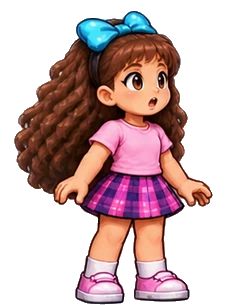
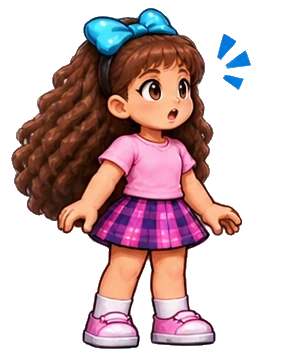
V58.8.34: transformación a Roblox con la exportación nueva del autor
Los 12 cuadros de la transformación de Sofía se recortan de la hoja reenviada
(mismos dibujos, 16 % más resolución), con un recuadro común para conservar la
alineación de la animación.

Claude-Session: https://claude.ai/code/session_014Q4ZknC6CJXiujQoE6npZF

diff --git a/sw.js b/sw.js
@@ -1,4 +1,5 @@
-// ¡Se me fue el camión! — service worker (V58.8.33).
+// ¡Se me fue el camión! — service worker (V58.8.34).
+// V58.8.34: cuadros de la transformación de Sofía a Roblox con la exportación más nítida (mismas rutas: los renueva el CACHE nuevo).
 // V58.8.33: atlas de la Sofía cúbica oficial en Parafalls (el PNG cambia de contenido: lo renueva el CACHE nuevo).
 // V58.8.32: Parafalls con la Sofía Roblox oficial (hoja de transformación) en toda su cinemática.
 // V58.8.31: calidad adaptable en la Calzada, motor de la moto y cortinilla de jefes.
@@ -25,8 +26,8 @@
 // Cada instalación mantiene el caché de su propia carpeta.
 const SCOPE = self.registration.scope;
 const CACHE_PREFIX = 'camion-web:' + SCOPE + '|';
-const CACHE = CACHE_PREFIX + '58.8.33';
-const CODE=["assets/player/sofia_roblox/sofia_atlas_data.js?v=58.8.33", "assets/player/sofia_roblox/sofia_parafalls_adapter.js?v=58.8.33", "js/app/parafalls_roblox_atlases.js?v=58.8.14", "css/game.css?v=58.8.1", "css/toxifamilia_style.css?v=58.8.17", "css/toxifamilia.css?v=58.8.25", "css/release_visual.css?v=58.8.30", "js/core/util.js?v=58.8.1", "js/core/config.js?v=58.8.33", "js/core/parafalls_data.js?v=58.8.13", "js/core/levels.js?v=58.8.30", "js/core/story.js?v=58.8.30", "js/core/toxifamilia_style.js?v=58.8.30", "js/core/toxifamilia.js?v=58.8.32", "js/core/physics.js?v=58.8.24", "js/core/enemies.js?v=58.8.29", "js/core/obstacles.js?v=58.8.1", "js/core/contracts.js?v=58.8.29", "js/core/upgrades.js?v=58.8.27", "js/core/world.js?v=58.8.29", "js/core/game.js?v=58.8.30", "js/core/chase.js?v=58.8.29", "js/app/art_data.js?v=58.8.1", "js/app/art_secretos.js?v=58.8.6", "js/app/art_extra.js?v=58.8.29", "js/app/art_production.js?v=58.8.1", "js/app/render.js?v=58.8.30", "js/app/chase_render.js?v=58.8.31", "js/app/input.js?v=58.8.1", "js/app/audio.js?v=58.8.31", "js/app/ui.js?v=58.8.31", "js/app/main.js?v=58.8.32", "js/app/toxifamilia_cinematic.js?v=58.8.30"];
+const CACHE = CACHE_PREFIX + '58.8.34';
+const CODE=["assets/player/sofia_roblox/sofia_atlas_data.js?v=58.8.33", "assets/player/sofia_roblox/sofia_parafalls_adapter.js?v=58.8.33", "js/app/parafalls_roblox_atlases.js?v=58.8.14", "css/game.css?v=58.8.1", "css/toxifamilia_style.css?v=58.8.17", "css/toxifamilia.css?v=58.8.25", "css/release_visual.css?v=58.8.30", "js/core/util.js?v=58.8.1", "js/core/config.js?v=58.8.34", "js/core/parafalls_data.js?v=58.8.13", "js/core/levels.js?v=58.8.30", "js/core/story.js?v=58.8.30", "js/core/toxifamilia_style.js?v=58.8.30", "js/core/toxifamilia.js?v=58.8.32", "js/core/physics.js?v=58.8.24", "js/core/enemies.js?v=58.8.29", "js/core/obstacles.js?v=58.8.1", "js/core/contracts.js?v=58.8.29", "js/core/upgrades.js?v=58.8.27", "js/core/world.js?v=58.8.29", "js/core/game.js?v=58.8.30", "js/core/chase.js?v=58.8.29", "js/app/art_data.js?v=58.8.1", "js/app/art_secretos.js?v=58.8.6", "js/app/art_extra.js?v=58.8.29", "js/app/art_production.js?v=58.8.1", "js/app/render.js?v=58.8.30", "js/app/chase_render.js?v=58.8.31", "js/app/input.js?v=58.8.1", "js/app/audio.js?v=58.8.31", "js/app/ui.js?v=58.8.31", "js/app/main.js?v=58.8.32", "js/app/toxifamilia_cinematic.js?v=58.8.30"];
 const SHELL=['Se_Me_Fue_El_Camion.html','index.html','manifest.webmanifest','icon-192.png','icon-512.png','icon-512-maskable.png','assets/audio/cancion_fondo_v40.mp3','assets/audio/guadalajara_aventura_v24.mp3','assets/audio/ambiente_escuela_v24.mp3','assets/audio/ambiente_calles_guadalajara_v24.mp3','assets/audio/luna_maullido_v24.mp3','assets/audio/morita_maullido_v24.mp3','assets/audio/luna_ronroneo_v31.mp3','assets/audio/morita_ronroneo_v31.mp3','assets/audio/luna_alerta_v31.mp3','assets/audio/morita_alerta_v31.mp3','assets/audio/sofia_otro_gato_usuario_v38.mp3','assets/audio/mar_chinos_de_seda_fondo_v58_3.mp3','assets/audio/motor_camion_guadalajara_v25.mp3','assets/audio/boss_intro_v37.mp3','assets/audio/boss_windup_v37.mp3','assets/audio/boss_hit_v37.mp3','assets/audio/boss_defeat_v37.mp3','assets/vehicles/camion_frame_01.png','assets/vehicles/camion_frame_02.png','assets/vehicles/camion_frame_03.png','assets/vehicles/camion_frame_04.png','assets/companions/luna.png','assets/companions/luna_shoulder.png','assets/companions/morita.png','assets/companions/morita_shoulder.png'];
 const SCENES=["assets/scenes/generated/anden_tren_ligero_guadalajara.webp", "assets/scenes/generated/guadalajara_colonia_noche.webp", "assets/scenes/generated/mercado_tapatio_amanecer.webp", "assets/scenes/generated/parque_metropolitano_atardecer.webp", "assets/scenes/generated/plaza_jacarandas_noche.webp", "assets/scenes/generated/terminal_guadalajara_amanecer.webp", "assets/scenes/generated/zapopan_basilica_noche.webp", "assets/scenes/guadalajara_pro_v2/bg_guadalajara_pro_v2.webp", "assets/scenes/guadalajara_pro_v2/transit_street.webp", "assets/scenes/guadalajara_pro_v2/bg_portales_pro_v2.webp", "assets/scenes/guadalajara_pro_v2/bg_centro_historico_pro_v2.webp", "assets/scenes/guadalajara_pro_v2/architecture_guadalajara_pro_v2.png", "assets/scenes/guadalajara_pro_v2/architecture_portales_pro_v2.png", "assets/scenes/guadalajara_pro_v2/architecture_centro_historico_pro_v2.png", "assets/scenes/school_miguel_hidalgo/01_aulas_superiores.webp", "assets/scenes/school_miguel_hidalgo/02_patio_escolar.webp", "assets/scenes/school_miguel_hidalgo/03_conserjeria_entrada.webp"];
 const ART=["assets/player/sofia/air_01.png", "assets/player/sofia/cheer_01.png", "assets/player/sofia/cheer_02.png", "assets/player/sofia/cheer_03.png", "assets/player/sofia/dive_01.png", "assets/player/sofia/idle_01.png", "assets/player/sofia/kick_01.png", "assets/player/sofia/kick_02.png", "assets/player/sofia/kick_03.png", "assets/player/sofia/kick_04.png", "assets/player/sofia/land_01.png", "assets/player/sofia/run_01.png", "assets/player/sofia/run_02.png", "assets/player/sofia/run_03.png", "assets/player/sofia/run_04.png", "assets/platforms/brick.png", "assets/platforms/concrete.png", "assets/platforms/hazard.png", "assets/platforms/scaffold.png", "assets/platforms/stone_long.png", "assets/platforms/stone_moss.png", "assets/platforms/stone_rocks.png", "assets/platforms/stone_slim.png", "assets/platforms/stone_small.png", "assets/platforms/tiles_a.png", "assets/platforms/tiles_b.png", "assets/platforms/wood_table.png", "assets/platforms/plank.png", "assets/player/sofia/swim_atlas.png", "assets/enemies/v50/dog/alert_02.png", "assets/enemies/v50/dog/alert_03.png", "assets/enemies/v50/dog/dead_01.png", "assets/enemies/v50/dog/walk_02.png", "assets/enemies/v50/dog/walk_03.png", "assets/enemies/v50/dog/walk_04.png", "assets/enemies/v50/kid/alert_01.png", "assets/enemies/v50/kid/alert_02.png", "assets/enemies/v50/kid/alert_03.png", "assets/enemies/v50/kid/alert_04.png", "assets/enemies/v50/kid/alert_05.png", "assets/enemies/v50/kid/dead_02.png", "assets/enemies/v50/kid/hurt_01.png", "assets/enemies/v50/kid/hurt_02.png", "assets/enemies/v50/kid/hurt_03.png", "assets/enemies/v50/kid/idle_01.png", "assets/enemies/v50/kid/idle_02.png", "assets/enemies/v50/kid/idle_03.png", "assets/enemies/v50/kid/idle_04.png", "assets/enemies/v50/kid/idle_05.png", "assets/enemies/v50/kid/idle_06.png", "assets/enemies/v50/kid/walk_01.png", "assets/enemies/v50/kid/walk_02.png", "assets/enemies/v50/kid/walk_03.png", "assets/enemies/v50/kid/walk_04.png", "assets/enemies/v50/kid/walk_05.png", "assets/enemies/v50/kid/walk_06.png", "assets/enemies/v50/rat/alert_01.png", "assets/enemies/v50/rat/alert_02.png", "assets/enemies/v50/rat/alert_04.png", "assets/enemies/v50/rat/dead_01.png", "assets/enemies/v50/rat/hurt_01.png", "assets/enemies/v50/rat/hurt_02.png", "assets/enemies/v50/rat/hurt_03.png", "assets/enemies/v50/rat/hurt_04.png", "assets/enemies/v50/rat/walk_01.png", "assets/enemies/v50/rat/walk_02.png", "assets/enemies/v50/rat/walk_03.png", "assets/backgrounds/atlas_parallax_city.webp"];

diff --git a/tests/v58_8_21_visual.test.js b/tests/v58_8_21_visual.test.js
@@ -14,7 +14,7 @@ test('V58.8.21: 22 imágenes originales retocadas, dimensiones declaradas y hash
 });
 test('V58.8.21: recursos de presentación y estilos versionados están en precache',()=>{
  const sw=read('sw.js').toString(),html=read('Se_Me_Fue_El_Camion.html').toString();
- assert.ok(sw.includes("'58.8.33'"));
+ assert.ok(sw.includes("'58.8.34'"));
  for(const [p,v] of [['css/release_visual.css','58.8.30'],['js/app/render.js','58.8.30'],['js/app/ui.js','58.8.31']]){assert.ok(sw.includes(p+'?v='+v));assert.ok(html.includes(p+'?v='+v));}
  for(const id of ['escuela','guadalajara','submarino','espacial','parafalls','sofia','luna','morita']){const f=`assets/ui/worlds_v21/${id}.webp`;assert.ok(sw.includes(f));assert.ok(read(f).length>1000);}
  for(const id of ['worldKicker','worldTitle','worldDesc','hudWorld','routeFill'])assert.ok(html.includes('id="'+id+'"'));

diff --git a/Se_Me_Fue_El_Camion.html b/Se_Me_Fue_El_Camion.html
@@ -182,7 +182,7 @@
 
 <!-- Núcleo sin DOM (probado con node --test) -->
 <script src="js/core/util.js?v=58.8.1"></script>
-<script src="js/core/config.js?v=58.8.33"></script>
+<script src="js/core/config.js?v=58.8.34"></script>
 <script src="js/core/parafalls_data.js?v=58.8.13"></script>
 <script src="js/core/levels.js?v=58.8.30"></script>
 <script src="js/core/story.js?v=58.8.30"></script>

diff --git a/js/core/config.js b/js/core/config.js
@@ -6,8 +6,8 @@
   const NS = root.CAMION = root.CAMION || {};
 
   NS.CONFIG = {
-    version: '58.8.33',
-    build: 'v58-8-33-sofia-cubica',
+    version: '58.8.34',
+    build: 'v58-8-34-transformacion-nitida',
 
     sim: {
       fixedDt: 1 / 60,      // paso fijo de simulación (60 Hz), independiente de la tasa de refresco

diff --git a/CHANGELOG_V58_8_24.md b/CHANGELOG_V58_8_24.md
@@ -626,3 +626,22 @@ Las tres hojas sueltas que mandaste con el paquete son las referencias con las q
   cada estado del juego y las duraciones.
 - **Chromium:** en Parafalls la vi parada, corriendo, saltando, cayendo, pateando, con dash y celebrando. Los 23 tramos
   sin errores ni archivos faltantes.
+
+# V58.8.34 · La transformación a Roblox con tu exportación nueva
+
+En la 58.8.33 traté como solo referencia la hoja de la transformación que mandaste con el atlas, y mantuve los
+cuadros anteriores. La revisé a fondo y ahora la uso.
+- **Mismo dibujo, más nítido.** Son los mismos 12 dibujos y la misma secuencia (camina, mira el portal, toca la luz y
+  se vuelve cúbica): los colores difieren apenas 5–7 de 255 en los píxeles comunes. Esta exportación es un 16 % más
+  grande: cada figura mide unos 343 px de alto, contra 296 en la anterior.
+- **Recorte.** La hoja es una cuadrícula exacta de 4 × 3 celdas de 362 px. Corté cada cuadro con su celda y luego todos
+  con el mismo recuadro (lienzo común de 284 × 355). Así se conserva la posición que les diste y la animación no salta;
+  los pies caen en la misma línea.
+- **Limpieza.** Quité el halo tenue (alfa menor a 90) y las motas sueltas, y dejé las chispas de la transformación.
+- **Mismos archivos.** Reemplacé los archivos en las mismas rutas. Subí la versión de la caché del service worker para
+  que el navegador descargue los nuevos.
+
+**QA**
+- **Node:** 157/157.
+- **Chromium:** revisé la cinemática del portal (caminando, mirando el portal y transformándose) y las dos escenas
+  siguientes; sin errores ni archivos faltantes.
